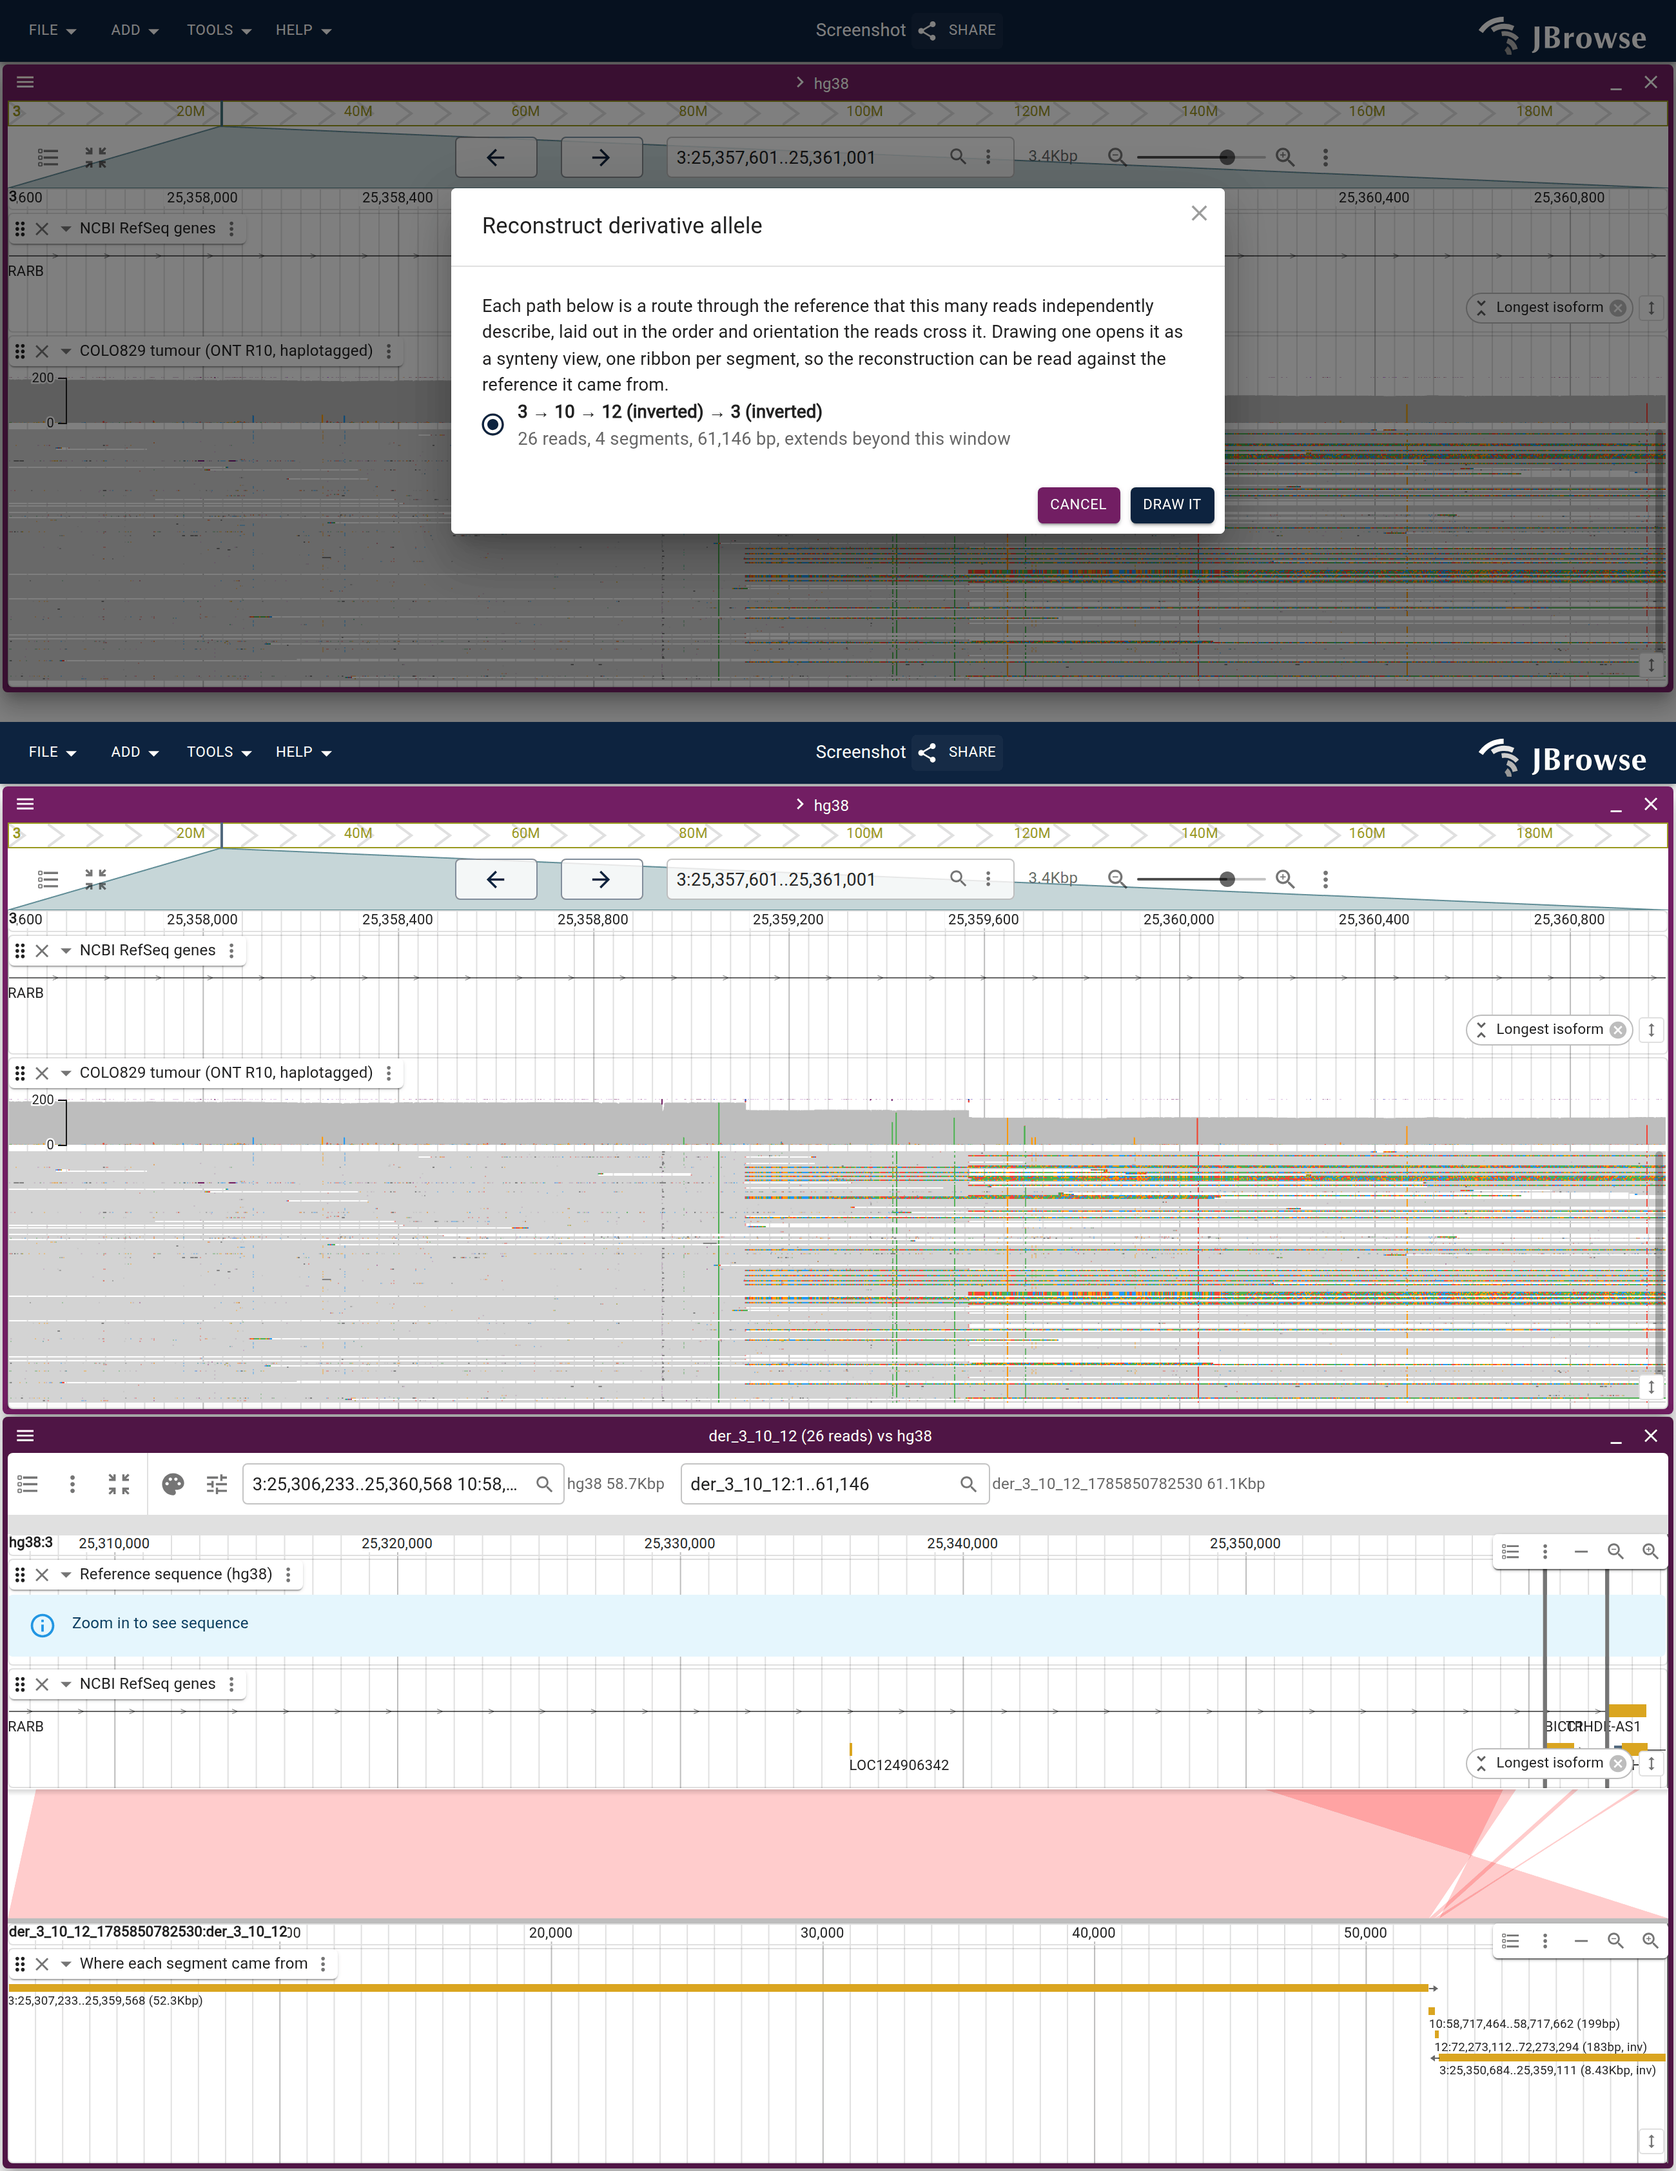
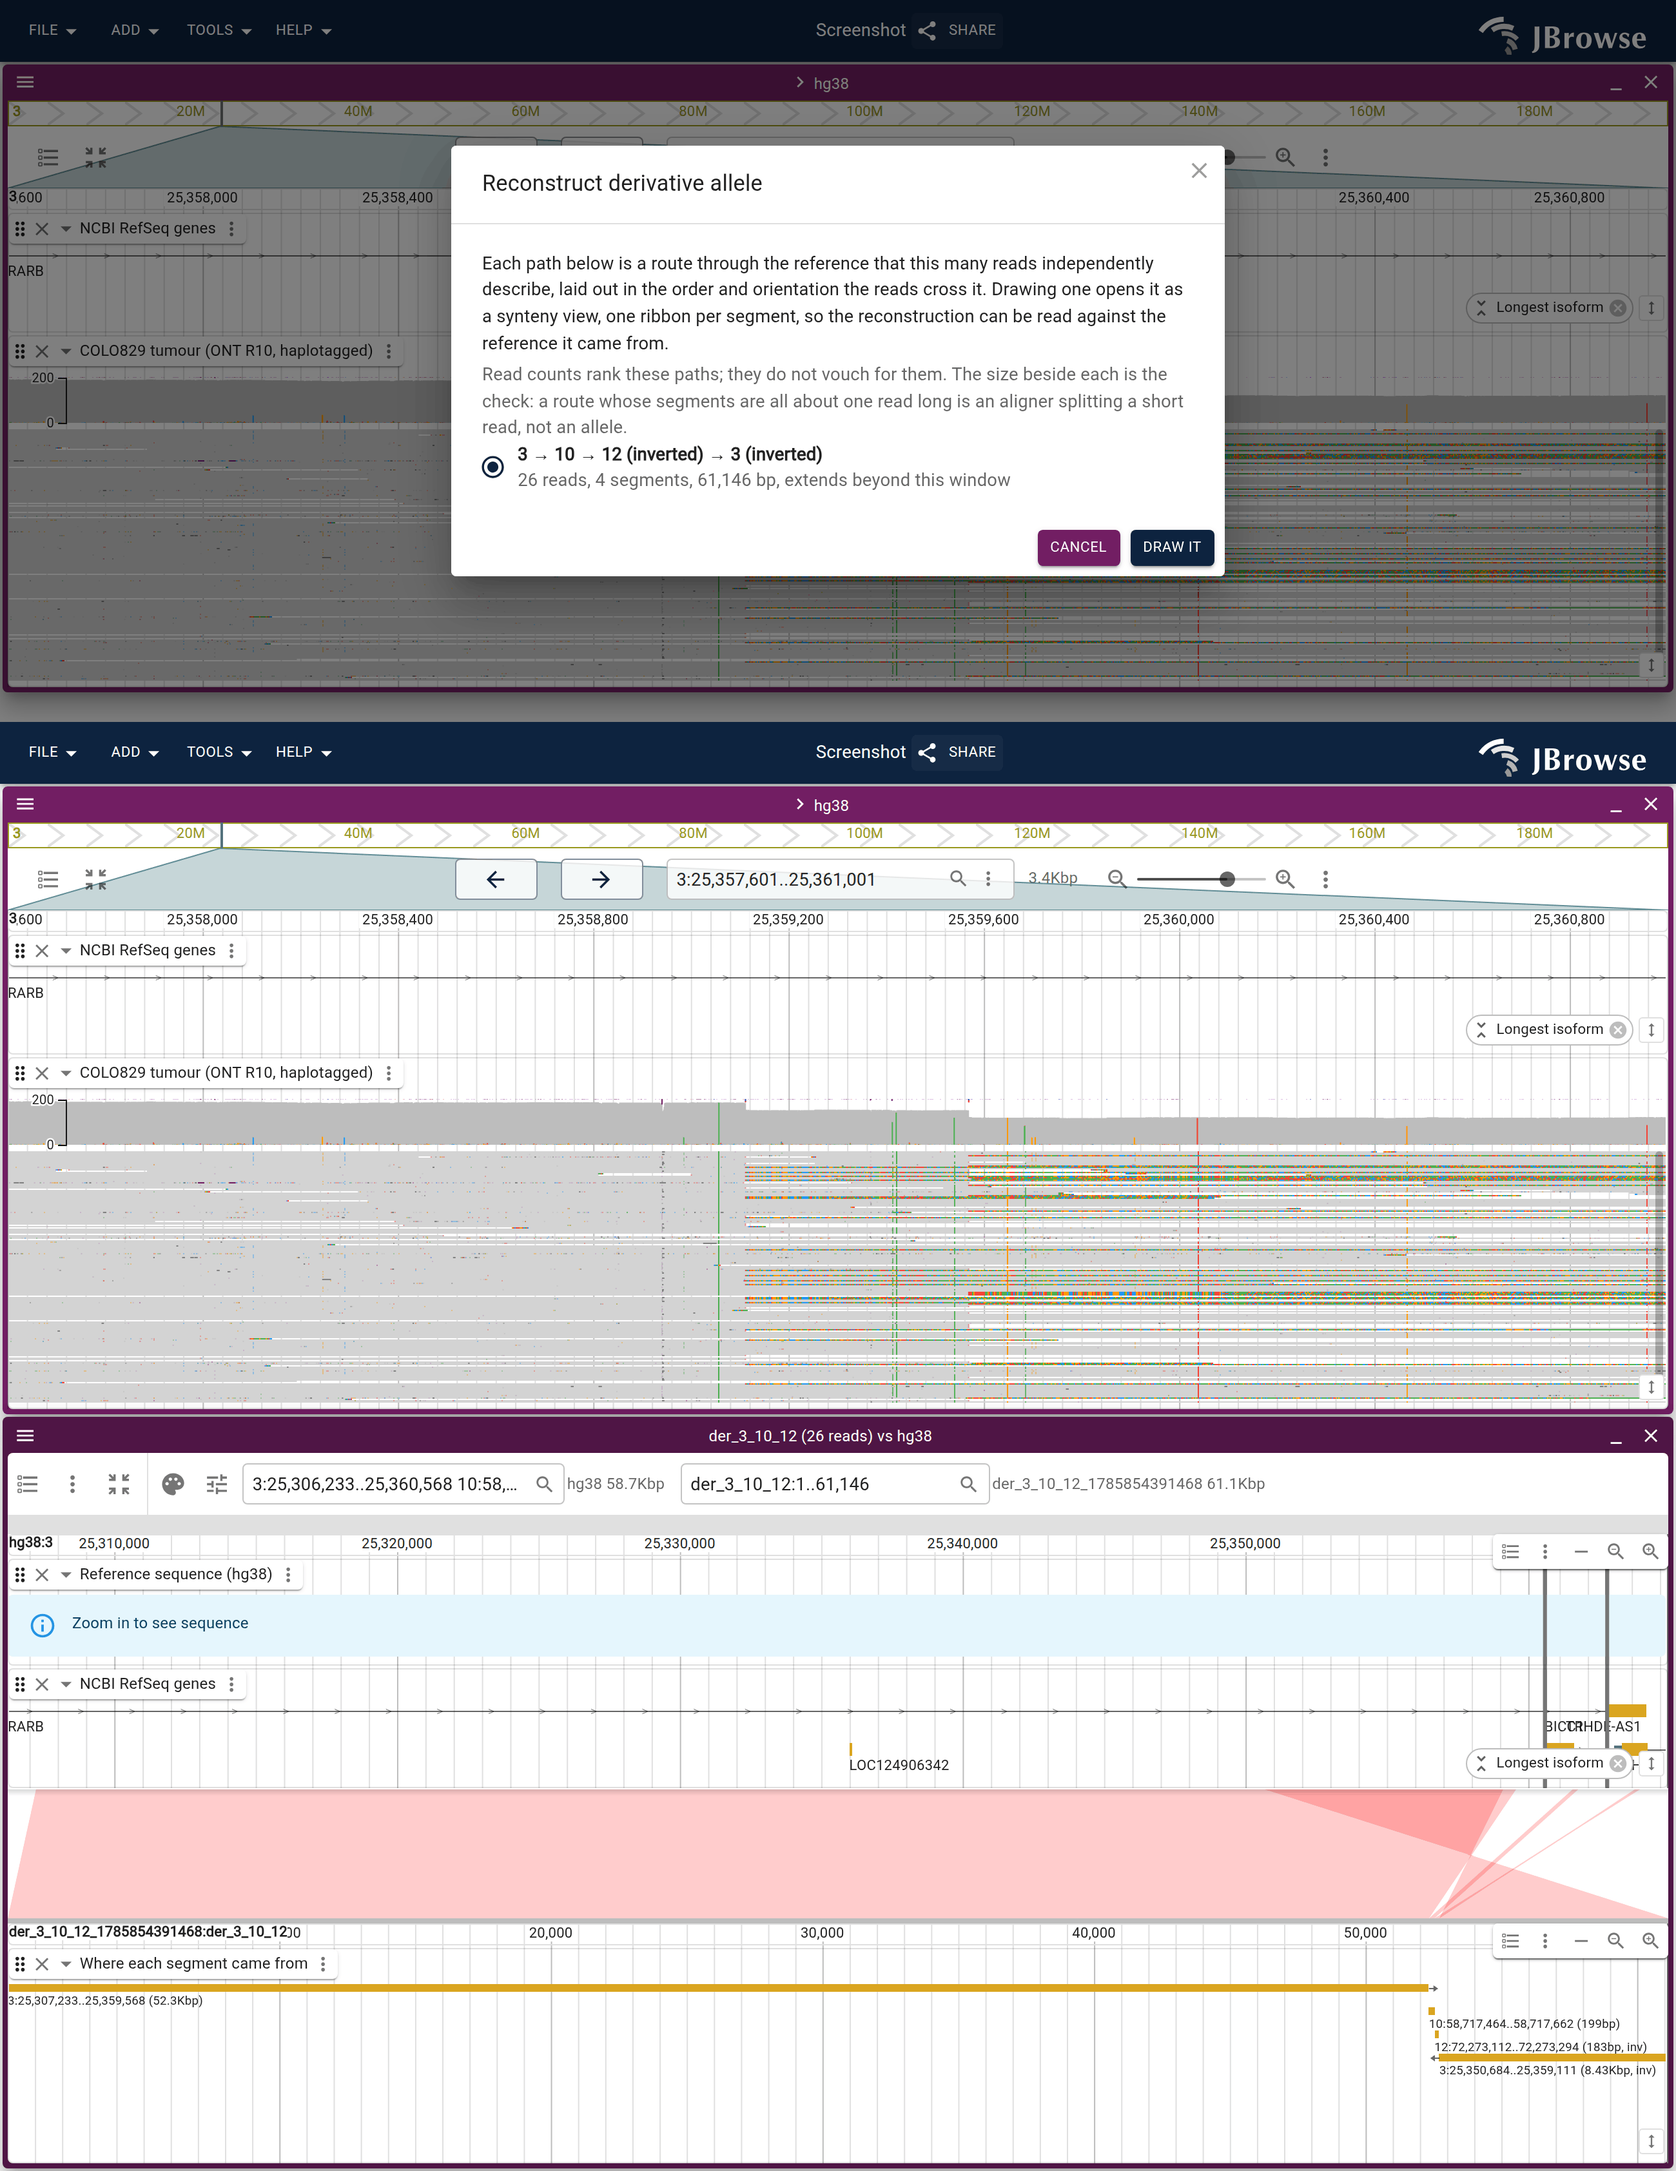
fix(linear-comparative-view): say what the read count in the picker does not
Read counts rank the paths and nothing vouches for them, which the tutorial said
and the dialog did not. It matters most for the case the dialog gives no hint
about: on paired-end short reads every row is the aligner splitting one read
across the genome, and the top row carries more reads than COLO829's real der(3)
does (realReads.shortread.test.ts).

The check is already on screen — each row prints its segment count and total bp —
so this points at it rather than adding anything: a route whose segments are all
about one read long is not an allele. Second paragraph rather than a longer
first one, so the caveat reads as a caveat.

Claude-Session: https://claude.ai/code/session_01GACABgeU6W2oCVjhGQpKsS

Changed region(s): [[0.2492, 0.0624, 0.7477, 0.2806]]

diff --git a/plugins/linear-comparative-view/src/LinearDerivativeVsRef/LinearDerivativeVsRef.tsx b/plugins/linear-comparative-view/src/LinearDerivativeVsRef/LinearDerivativeVsRef.tsx
@@ -32,6 +32,10 @@ const useStyles = makeStyles()(theme => ({
   detail: {
     color: theme.palette.text.secondary,
   },
+  caveat: {
+    color: theme.palette.text.secondary,
+    marginTop: theme.spacing(1),
+  },
 }))
 
 interface ViewTrack {
@@ -204,6 +208,11 @@ const DerivativeVsRefDialog = observer(function DerivativeVsRefDialog({
               orientation the reads cross it. Drawing one opens it as a synteny
               view, one ribbon per segment, so the reconstruction can be read
               against the reference it came from.
+            </Typography>
+            <Typography className={classes.caveat}>
+              Read counts rank these paths; they do not vouch for them. The size
+              beside each is the check: a route whose segments are all about one
+              read long is an aligner splitting a short read, not an allele.
             </Typography>
             <RadioGroup
               // the real result of the reconstruction pass, so a screenshot

diff --git a/website/docs/tutorials/cancer_sv.md b/website/docs/tutorials/cancer_sv.md
@@ -164,7 +164,9 @@ Read counts rank the candidates; they do not decide them. Reads mismapped into a
 repeat produce a confident-looking path, which is why the output is a proposal
 to look at rather than a call: check that the reads run through each junction
 instead of clipping at it, and that the segments land in the genes the event is
-supposed to involve.
+supposed to involve. The segment sizes are the other check, and the reason this
+wants long reads: a route assembled from read-length pieces is an aligner
+splitting one short read across the genome.
 
 ## Reconstructing the allele's sequence
 
